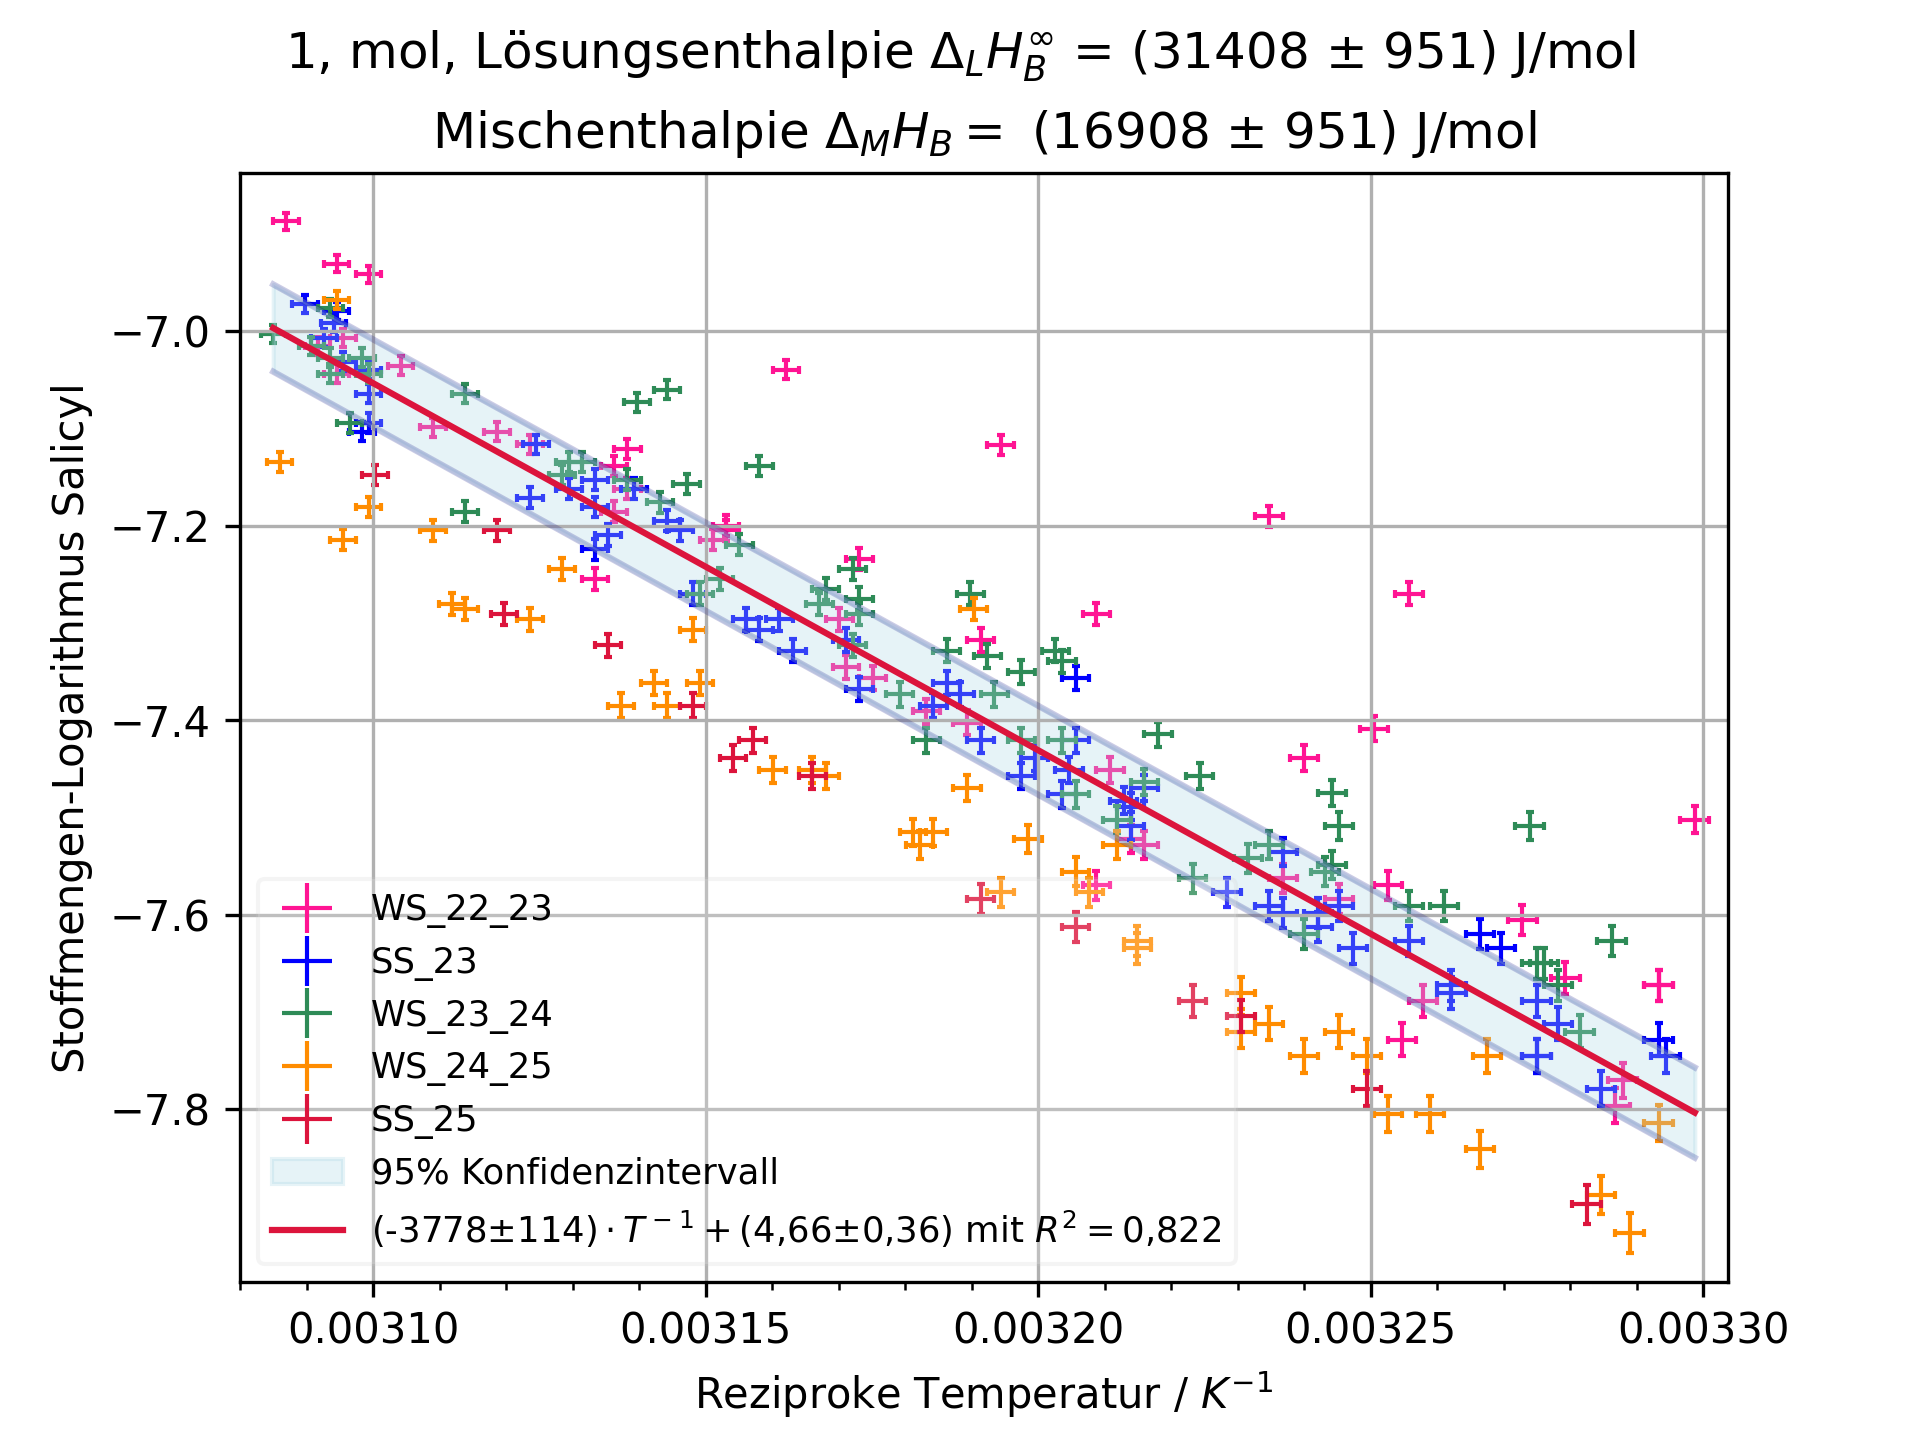
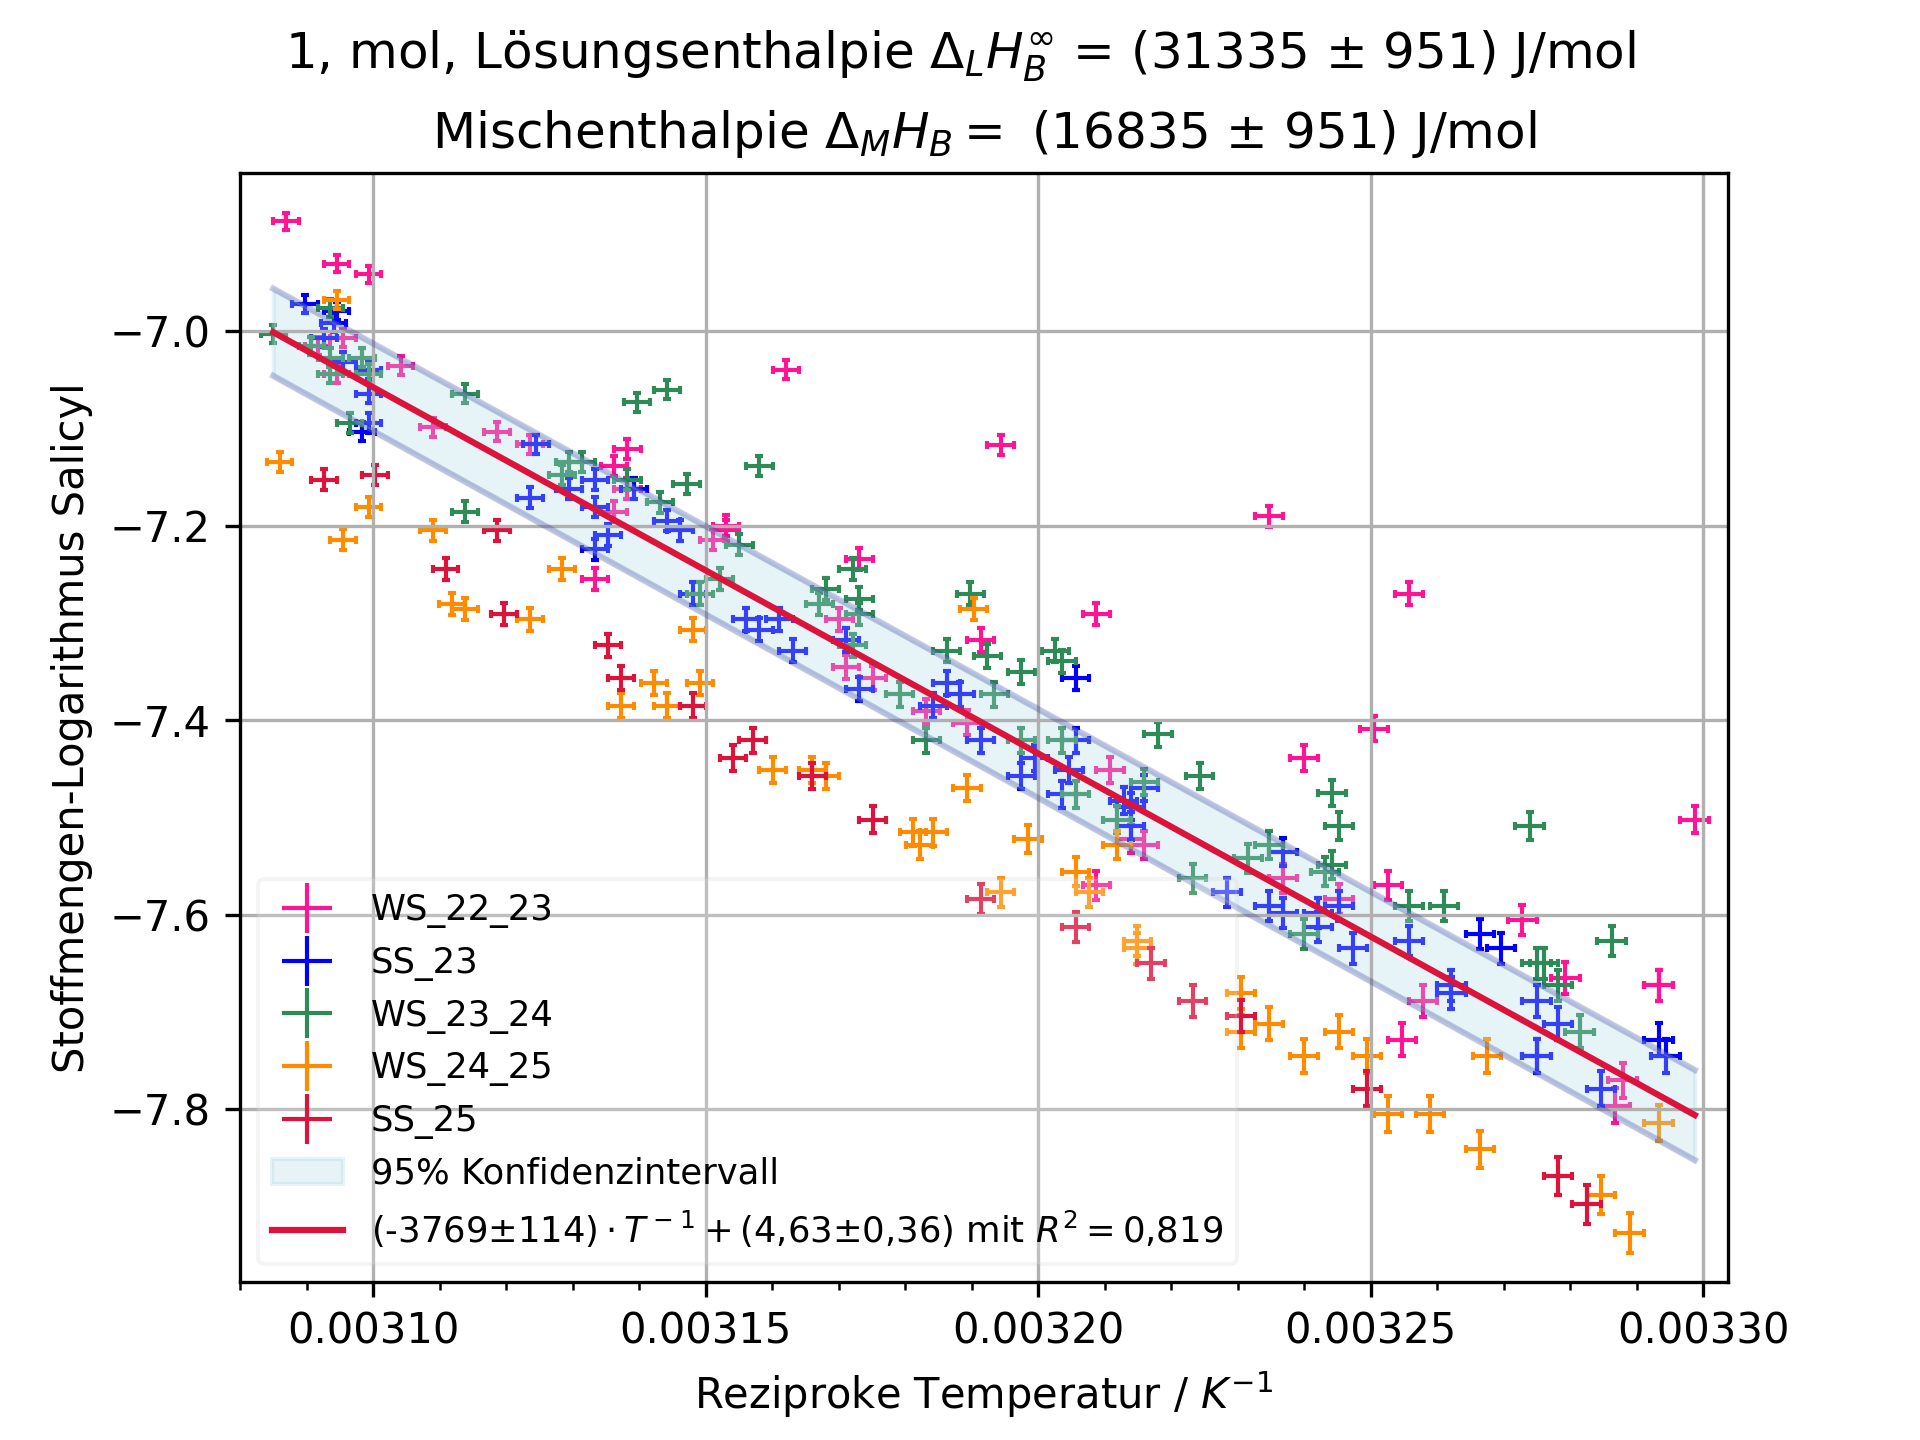
modified:   Daten/Ideal_SS_25.csv 	modified:   Daten/Mikroskop_SS_23.csv 	modified:   Daten/Mikroskop_SS_24.csv 	modified:   Daten/Mikroskop_SS_25.csv 	modified:   Daten/Mikroskop_WS_22-23.csv 	modified:   Daten/Mikroskop_WS_23-24.csv 	modified:   Daten/Mikroskop_WS_24-25.csv 	modified:   Daten/Wass

diff --git a/Mikroskop.py b/Mikroskop.py
@@ -10,57 +10,71 @@ import os
 path = os.path.dirname(os.path.abspath(__file__))
 fig, ax = plt.subplots()
 xWerte = np.linspace(0, 1, 100)
-
-
-# Stoffmengenanteile Acetanilid - Benzamid (x-Achse)
-Anteil = [0.122, 0.199, 0.290, 0.430, 0.500, 0.600, 0.700, 0.800, 0.900, 0.000, 0.122, 0.199, 0.290, 0.430, 0.500, 0.600, 0.700, 0.800, 0.900, 1.000]
-Anteile = ['E122', 'E199', 'E290', 'E430', 'E500', 'E600', 'E700', 'E800', 'E900', 'L000', 'L122', 'L199', 'L290', 'L430', 'L500', 'L600', 'L700', 'L800', 'L900', 'L1000']
-# Stoffmengenanteile Acetanilid - Benzil (x-Achse)
-Anteil2 = [0.067, 0.176, 0.301, 0.392, 0.491, 0.600, 0.660, 0.750, 0.851, 0.000, 0.067, 0.176, 0.301, 0.392, 0.491, 0.600, 0.660, 0.750, 0.851, 1.000]	
-Anteile2 = ['E067', 'E176', 'E301', 'E392', 'E491', 'E600', 'E660', 'E750', 'E851', 'L000', 'L067', 'L176', 'L301', 'L392', 'L491', 'L600', 'L660', 'L750', 'L851', 'L1000']
-
-
-# Dateinamen und Bezeichnungen
-Dateien = ['Mikroskop_WS_22-23', 'Mikroskop_SS_23', 'Mikroskop_WS_23-24', 'Mikroskop_SS_24', 'Mikroskop_WS_24-25', 'Mikroskop_SS_25']
-Bezeichnung = ['WS 22-23', 'SS 23', 'WS 23-24', 'SS 24', 'WS 24-25', 'SS 25']
 colortable = ['sienna', 'darkgoldenrod', 'darkolivegreen', 'steelblue', 'darkmagenta', 'crimson']
 
 
-# Leere Listen für die Werte
-WS2223 = np.zeros(len(Anteile))
-SS23 = np.zeros(len(Anteile))
-WS2324 = np.zeros(len(Anteile))
-SS24 = np.zeros(len(Anteile))
-WS2425 = np.zeros(len(Anteile))
-SS25 = np.zeros(len(Anteile))
-Mittelwertliste = np.array([WS2223, SS23, WS2324, SS24, WS2425, SS25])
-Sigma = np.array([WS2223, SS23, WS2324, SS24, WS2425, SS25])
-Menge = []
+# Stoffmengenanteile Acetanilid - Benzamid (x-Achse)
+Anteil_Bd = [0.122, 0.199, 0.290, 0.430, 0.500, 0.600, 0.700, 0.800, 0.900, 0.000, 0.122, 0.199, 0.290, 0.430, 0.500, 0.600, 0.700, 0.800, 0.900, 1.000]
+# Stoffmengenanteile Acetanilid - Benzil (x-Achse)
+Anteil_Bl = [0.067, 0.176, 0.301, 0.392, 0.491, 0.600, 0.660, 0.750, 0.851, 0.000, 0.067, 0.176, 0.301, 0.392, 0.491, 0.600, 0.660, 0.750, 0.851, 1.000]	
+
+Anteile = ['E1', 'E2', 'E3', 'E4', 'E5', 'E6', 'E7', 'E8', 'E9', 'L0', 'L1', 'L2', 'L3', 'L4', 'L5', 'L6', 'L7', 'L8', 'L9', 'LX']
+
+# Dateinamen und Bezeichnungen
+Dateien = []
+for files in os.listdir(f'{path}\\Daten'):
+    if files[:10] == 'Mikroskop_':
+        Dateien.append(files[:-4])
+Bezeichnung = [Dateien[i][10:] for i in range(len(Dateien))]
+
+
+data_dict = {}
+for Datei in Dateien:
+    Data = pd.read_csv(f'{path}\\Daten\\{Datei}.csv', sep=",", header=0, names=Anteile)
+    for index, row in Data.iterrows():
+        index = index.replace('Bl', 'Benzil').replace('Bd', 'Benzamid')
+        data_dict.update({f'{Datei[10:]}_{index}': row.to_list()})
+
+
+def get_mean_std():
+    mean_std = {key: {Stoff: [[],[], 0]for Stoff in ['Benzamid', 'Benzil']} for key in Bezeichnung}
+    for semester in range(len(Bezeichnung)):
+        for Stoff in ['Benzamid', 'Benzil']:
+            semester_list = []
+            for Data in data_dict:
+                index = Data.split('_')
+                if f'{index[0]}_{index[1]}' == Bezeichnung[semester] and index[3] == Stoff:
+                    semester_list.append(data_dict[Data])
+            if len(semester_list) != 0:
+                mean_std[Bezeichnung[semester]][Stoff][0] = list(np.mean(semester_list, axis=0))
+                mean_std[Bezeichnung[semester]][Stoff][1] = list(np.std(semester_list, axis=0))
+                mean_std[Bezeichnung[semester]]['len'] = len(semester_list)
+    return mean_std
 
 
 # Plotparameter
-def Plotparams(Name, Titel):
-    plt.set_ylim(68, 132)
-    plt.set_xlim(-0.02, 1.02)
-    plt.set(xlabel='Stoffkonzentration $x_B$', ylabel='Temperatur in$^\circ C$')
+def Plotparams(Name, Titel, minmax = [68, 132], legend=True):
+    plt.ylim(minmax[0]-3, minmax[1]+3)
+    plt.xlim(-0.02, 1.02)
+    plt.xlabel('Stoffkonzentration $x_B$')
+    plt.ylabel('Temperatur in$^\circ C$')
     plt.legend()
     plt.grid()
-    plt.set_title(Titel)
-    ax.savefig(f'{path}\\PNG\\Mikroskop\\{Name}.png')
-    ax.show()
+    plt.title(Titel)
+    plt.savefig(f'{path}\\PNG\\Mikroskop\\{Name}.png')
     plt.cla()
 
 
 # Konstante Funktion für die Eutektikale
 def lin(Para, x): 
-    return Para
+    return Para * np.ones(len(x))
 
 
 # Fitfunktion mit Fehler für die Eutektikale
 def fit(func, x, y, Name, yError, Farbe, labeln):
     model = odr.Model(func)
     mydata = odr.RealData(x, y, sx= 0.01, sy=yError)
-    myodr = odr.ODR(mydata, model, beta0=[80.0, 0], maxit=1000)
+    myodr = odr.ODR(mydata, model, beta0=[80.0], maxit=1000)
     out = myodr.run()
     fy = func(out.beta, xWerte)
     if labeln == True:
@@ -70,68 +84,95 @@ def fit(func, x, y, Name, yError, Farbe, labeln):
     return out
 
 
-# Jedes Semester einzeln in einem Plot
-def Jedes_semester_ein_plot():
-    for i in range(len(Dateien)):
-        if i != 4:
-            SpezAnteil = Anteil
-            SpezAnteile = Anteile
-        else:
-            SpezAnteil = Anteil2
-            SpezAnteile = Anteile2
-        Data = pd.read_csv(f'{path}\\Daten\\{Dateien[i]}.csv', sep=",",header=0, names=SpezAnteile)
-        temp = 0
-        for j in SpezAnteile: # Mittelwert und Sigma für jeden Wert
-            Mittelwert = st.mean(Data[j])
-            SigmaTemp = 0
-            for k in Data[j]:
-                SigmaTemp = SigmaTemp + (k-Mittelwert)**2
-            Sigma[i][temp] = np.sqrt(SigmaTemp/len(Data[j]))
-            Mittelwertliste[i][temp] = Mittelwert
-            temp += 1
-        if i < 4:
-            Menge.append(len(Data))
-        fit(lin, SpezAnteil[:9], Mittelwertliste[i][:9], Dateien[i][10:], Sigma[i][:9], colortable[i], True)
-        plt.errorbar(SpezAnteil, Mittelwertliste[i], xerr=0.01, yerr=Sigma[i], color = colortable[i], capsize=3, linestyle='none')
-        Plotparams(Dateien[i], f'{len(Data[j])} Messungen {Bezeichnung[i]}')
-
-
-# Semester 1-4 in einen Plot übereinander gelegt
-def Benzamid_zusammengefasst_einzeln():
-    for i in range(4):
-        fit(lin, Anteil[:9], Mittelwertliste[i][:9], None, Sigma[i][:9], colortable[i], False)
-        plt.errorbar(Anteil, Mittelwertliste[i], xerr=0.01, yerr=Sigma[i], color=colortable[i], capsize=3, linestyle='none', label=Bezeichnung[i])
-        X_Y_Spline = make_interp_spline(Anteil[9:], Mittelwertliste[i][9:])
-        Y_ = X_Y_Spline(xWerte)
-        plt.plot(xWerte, Y_, color=colortable[i], alpha=0.8)
-    Plotparams('Alle', f'{sum(Menge)} Messungen von {Bezeichnung[0]} bis {Bezeichnung[-1]}')
-
-
-# Alle Werte Semester 1-4 in zusammengefasst in einem Plot
-def Benzamid_zusammengefasst_zusammen():
-    Gesamtdurchschnitt = np.zeros(len(Anteile))
-    Gesamtsigma = np.zeros(len(Anteile))
-    for i in range(4):
-        Gesamtdurchschnitt = Gesamtdurchschnitt + Mittelwertliste[i]*(Menge[i]/sum(Menge))
-        Gesamtsigma = Gesamtsigma + Sigma[i]*(Menge[i]/sum(Menge))
-    plt.errorbar(Anteil, Gesamtdurchschnitt, xerr=0.01, yerr=Gesamtsigma[i], color='black', capsize=3, linestyle='none', label=None)
-    fit(lin, Anteil[:9], Gesamtdurchschnitt[:9], None, Gesamtsigma[:9], 'black', True)
-    Plotparams('Gesamt', f'{sum(Menge)} Messungen von {Bezeichnung[0]} bis {Bezeichnung[-1]}')
+def eine_gruppe_ein_plot(Semester, Gruppe):
+    for Stoff in ['Benzil', 'Benzamid']:
+        if f'{Semester}_{Gruppe}_{Stoff}' in data_dict:
+            Data = data_dict[f'{Semester}_{Gruppe}_{Stoff}']
+        else: 
+            continue
+        if Stoff == 'Benzil':
+            Anteil = Anteil_Bl
+        elif Stoff == 'Benzamid':
+            Anteil = Anteil_Bd
+        plt.errorbar(Anteil[9:], Data[9:], xerr=0.01, yerr=1, color='navy', capsize=3, linestyle='none', label='Liquidus')
+        plt.errorbar(Anteil[:9], Data[:9], xerr=0.01, yerr=1, color='red', capsize=3, linestyle='none', label='Eutektikale')
+        fit(lin, Anteil[:9], Data[:9], None, [0.1]*9, 'purple', True)
+        Plotparams(f'{Semester[0:2]} {Semester[3:]}\\{Gruppe}_{Stoff}_Mikroskop', f'Daten der Gruppe {Gruppe} aus dem {Semester}\nAcetanilid - {Stoff}')
 
 
 # Jede Gruppe in einem Plot
-def JedeGruppeEinPlot():
-    for i in range(len(Dateien)):
-        Zieldata = pd.read_csv(f'{path}\\Daten\\{Dateien[i]}.csv', sep=",",header=0, names=Anteile)
-        for index, row in Zieldata.iterrows():
-            RowData = row.to_list()
-            plt.errorbar(Anteil2[9:], RowData[9:], xerr=0.01, yerr=1, color='navy', capsize=3, linestyle='none', label='Liquidus')
-            plt.errorbar(Anteil2[:9], RowData[:9], xerr=0.01, yerr=1, color='red', capsize=3, linestyle='none', label='Eutektikale')
-            fit(lin, Anteil[:9], RowData[:9], None, [0.1]*9, 'purple', True)
-            Plotparams(f'{Bezeichnung[i]}\\{index} Mikroskop', f'Daten der Gruppe {index}')
+def jede_gruppe_ein_plot():
+    for Data in data_dict:
+        minmax = [min(data_dict[Data]), max(data_dict[Data])]
+        index = Data.split('_')
+        if index[3] == 'Benzil':
+            Anteil = Anteil_Bl
+        elif index[3] == 'Benzamid':
+            Anteil = Anteil_Bd
+
+        plt.errorbar(Anteil[9:], data_dict[Data][9:], xerr=0.01, yerr=1, color='navy', capsize=3, linestyle='none', label='Liquidus')
+        plt.errorbar(Anteil[:9], data_dict[Data][:9], xerr=0.01, yerr=1, color='red', capsize=3, linestyle='none', label='Eutektikale')
+        fit(lin, Anteil[:9], data_dict[Data][:9], None, [0.1]*9, 'purple', True)
+        if not os.path.exists(f'{path}\\PNG\\Mikroskop\\{index[0]} {index[1]}'):
+            os.makedirs(f'{path}\\PNG\\Mikroskop\\{index[0]} {index[1]}')
+        Plotparams(f'{index[0]} {index[1]}\\{index[2]}_{index[3]}_Mikroskop', f'Daten der Gruppe {index[2]} aus dem {index[0]} {index[1]}\nAcetanilid - {index[3]}', minmax)
 
 
-# Jedes_semester_ein_plot()             # Gibt für jedes Semester einen Plot aus
-JedeGruppeEinPlot()                     # Gibt für jede Gruppe einen Plot aus
-# Benzamid_zusammengefasst_einzeln()    # Gibt die Zusammenfassungen von Semester 1-4 in einem Plot aus
-# Benzamid_zusammengefasst_zusammen()   # Gibt den Mittelwert der Werte von Semester 1-4 in einem Plot aus
+
+# Jedes Semester einzeln in einem Plot pro Stoff
+def jedes_semester_ein_plot():
+    for semester in range(len(Bezeichnung)):
+        minmax = [100, 100]
+        for Stoff in ['Benzamid', 'Benzil']:
+            if mean_std[Bezeichnung[semester]][Stoff][0] != []:
+                for Data in data_dict:
+                    index = Data.split('_')
+                    if Stoff == 'Benzamid':
+                        Anteil = Anteil_Bd
+                    elif Stoff == 'Benzil':
+                        Anteil = Anteil_Bl
+                    if f'{index[0]}_{index[1]}' == Bezeichnung[semester] and index[3] == Stoff:
+                        plt.errorbar(Anteil[9:], data_dict[Data][9:], xerr=0.01, yerr=1, color='navy', capsize=3, linestyle='none')
+                        plt.errorbar(Anteil[:9], data_dict[Data][:9], xerr=0.01, yerr=1, color='red', capsize=3, linestyle='none')
+                        minmax[0] = min(minmax[0], np.min(data_dict[Data]))
+                        minmax[1] = max(minmax[1], np.max(data_dict[Data]))
+                # Berechnung des Mittelwerts und der Standardabweichung für jeden Wert   
+                fit(lin, Anteil[:9], mean_std[Bezeichnung[semester]][Stoff][0][:9], None, mean_std[Bezeichnung[semester]][Stoff][1][:9], 'purple', True)
+                Plotparams(f'{Bezeichnung[semester]}_{Stoff}', f'Daten des {Bezeichnung[semester]} Semesters\nAcetanilid - {Stoff}', minmax, False)
+
+
+
+def jeder_stoff_ein_plot():
+    for Stoff in ['Benzamid', 'Benzil']:
+        minmax = [100, 100]
+        if Stoff == 'Benzamid':
+            Anteil = Anteil_Bd
+        elif Stoff == 'Benzil':
+            Anteil = Anteil_Bl
+        for Data in data_dict:
+            index = Data.split('_')
+            if index[3] == Stoff:
+                plt.errorbar(Anteil[9:], data_dict[Data][9:], xerr=0.01, yerr=1, color='blue', capsize=3, linestyle='none', alpha=0.1, zorder = 2)
+                plt.errorbar(Anteil[:9], data_dict[Data][:9], xerr=0.01, yerr=1, color='red', capsize=3, linestyle='none', alpha=0.1, zorder = 2)
+                minmax[0] = min(minmax[0], np.min(data_dict[Data]))
+                minmax[1] = max(minmax[1], np.max(data_dict[Data]))
+        mean = []
+        Sigma = []
+        Len = 0
+        for semester in range(len(Bezeichnung)):
+            if mean_std[Bezeichnung[semester]][Stoff][0] != []:
+                mean.append(mean_std[Bezeichnung[semester]][Stoff][0])
+                Sigma.append(np.array(mean_std[Bezeichnung[semester]][Stoff][1])**2)
+                Len += mean_std[Bezeichnung[semester]]['len']
+        plt.errorbar(Anteil[9:], np.mean(mean, axis=0)[9:], xerr=0.01, yerr=np.sqrt(np.mean(Sigma, axis=0))[9:], color='navy',    capsize=4, linewidth = 1.5, linestyle='none', label='Liquidus', zorder = 6)
+        plt.errorbar(Anteil[:9], np.mean(mean, axis=0)[:9], xerr=0.01, yerr=np.sqrt(np.mean(Sigma, axis=0))[:9], color='crimson', capsize=4, linewidth = 1.5, linestyle='none', label='Eutektikale', zorder = 6)
+        fit(lin, Anteil[:9], np.mean(mean, axis=0)[:9], None, np.sqrt(np.mean(Sigma, axis=0))[:9], 'purple', True)
+        Plotparams(f'Alle {Stoff}', f'{Len} Messungen\nAcetanilid - {Stoff}', minmax, True)
+
+
+if __name__ == '__main__':
+    eine_gruppe_ein_plot('SS_25', 'A5')        # Beispiel für eine Gruppe
+    jede_gruppe_ein_plot()                     # Gibt für jede Gruppe einen Plot aus
+    mean_std = get_mean_std()
+    jedes_semester_ein_plot()                  # Gibt für jedes Semester einen Plot aus
+    jeder_stoff_ein_plot()                     # Gibt die Zusammenfassungen von Semester 1-4 in einem Plot aus

diff --git a/Lösungen.py b/Lösungen.py
@@ -276,5 +276,5 @@ def EineGruppe(Gruppe, semester, Print = True):
 # EineGruppe('B4', '5') # Eine Gruppe und beide Stoffe sowie die ideale Lösung
 # Ideal('A1') # Ideale Lösung für eine Gruppe
 
-AlleAbfragen([1, 2, 3, 4, 5], '5_T(B4_B)', False)  # Alle Gruppen und Stoffe. Optional Print=True/False für Ausgabe der Ergebnisse
+AlleAbfragen([1, 2, 3, 4, 5], Print=False)  # Alle Gruppen und Stoffe. Optional Print=True/False für Ausgabe der Ergebnisse
 
